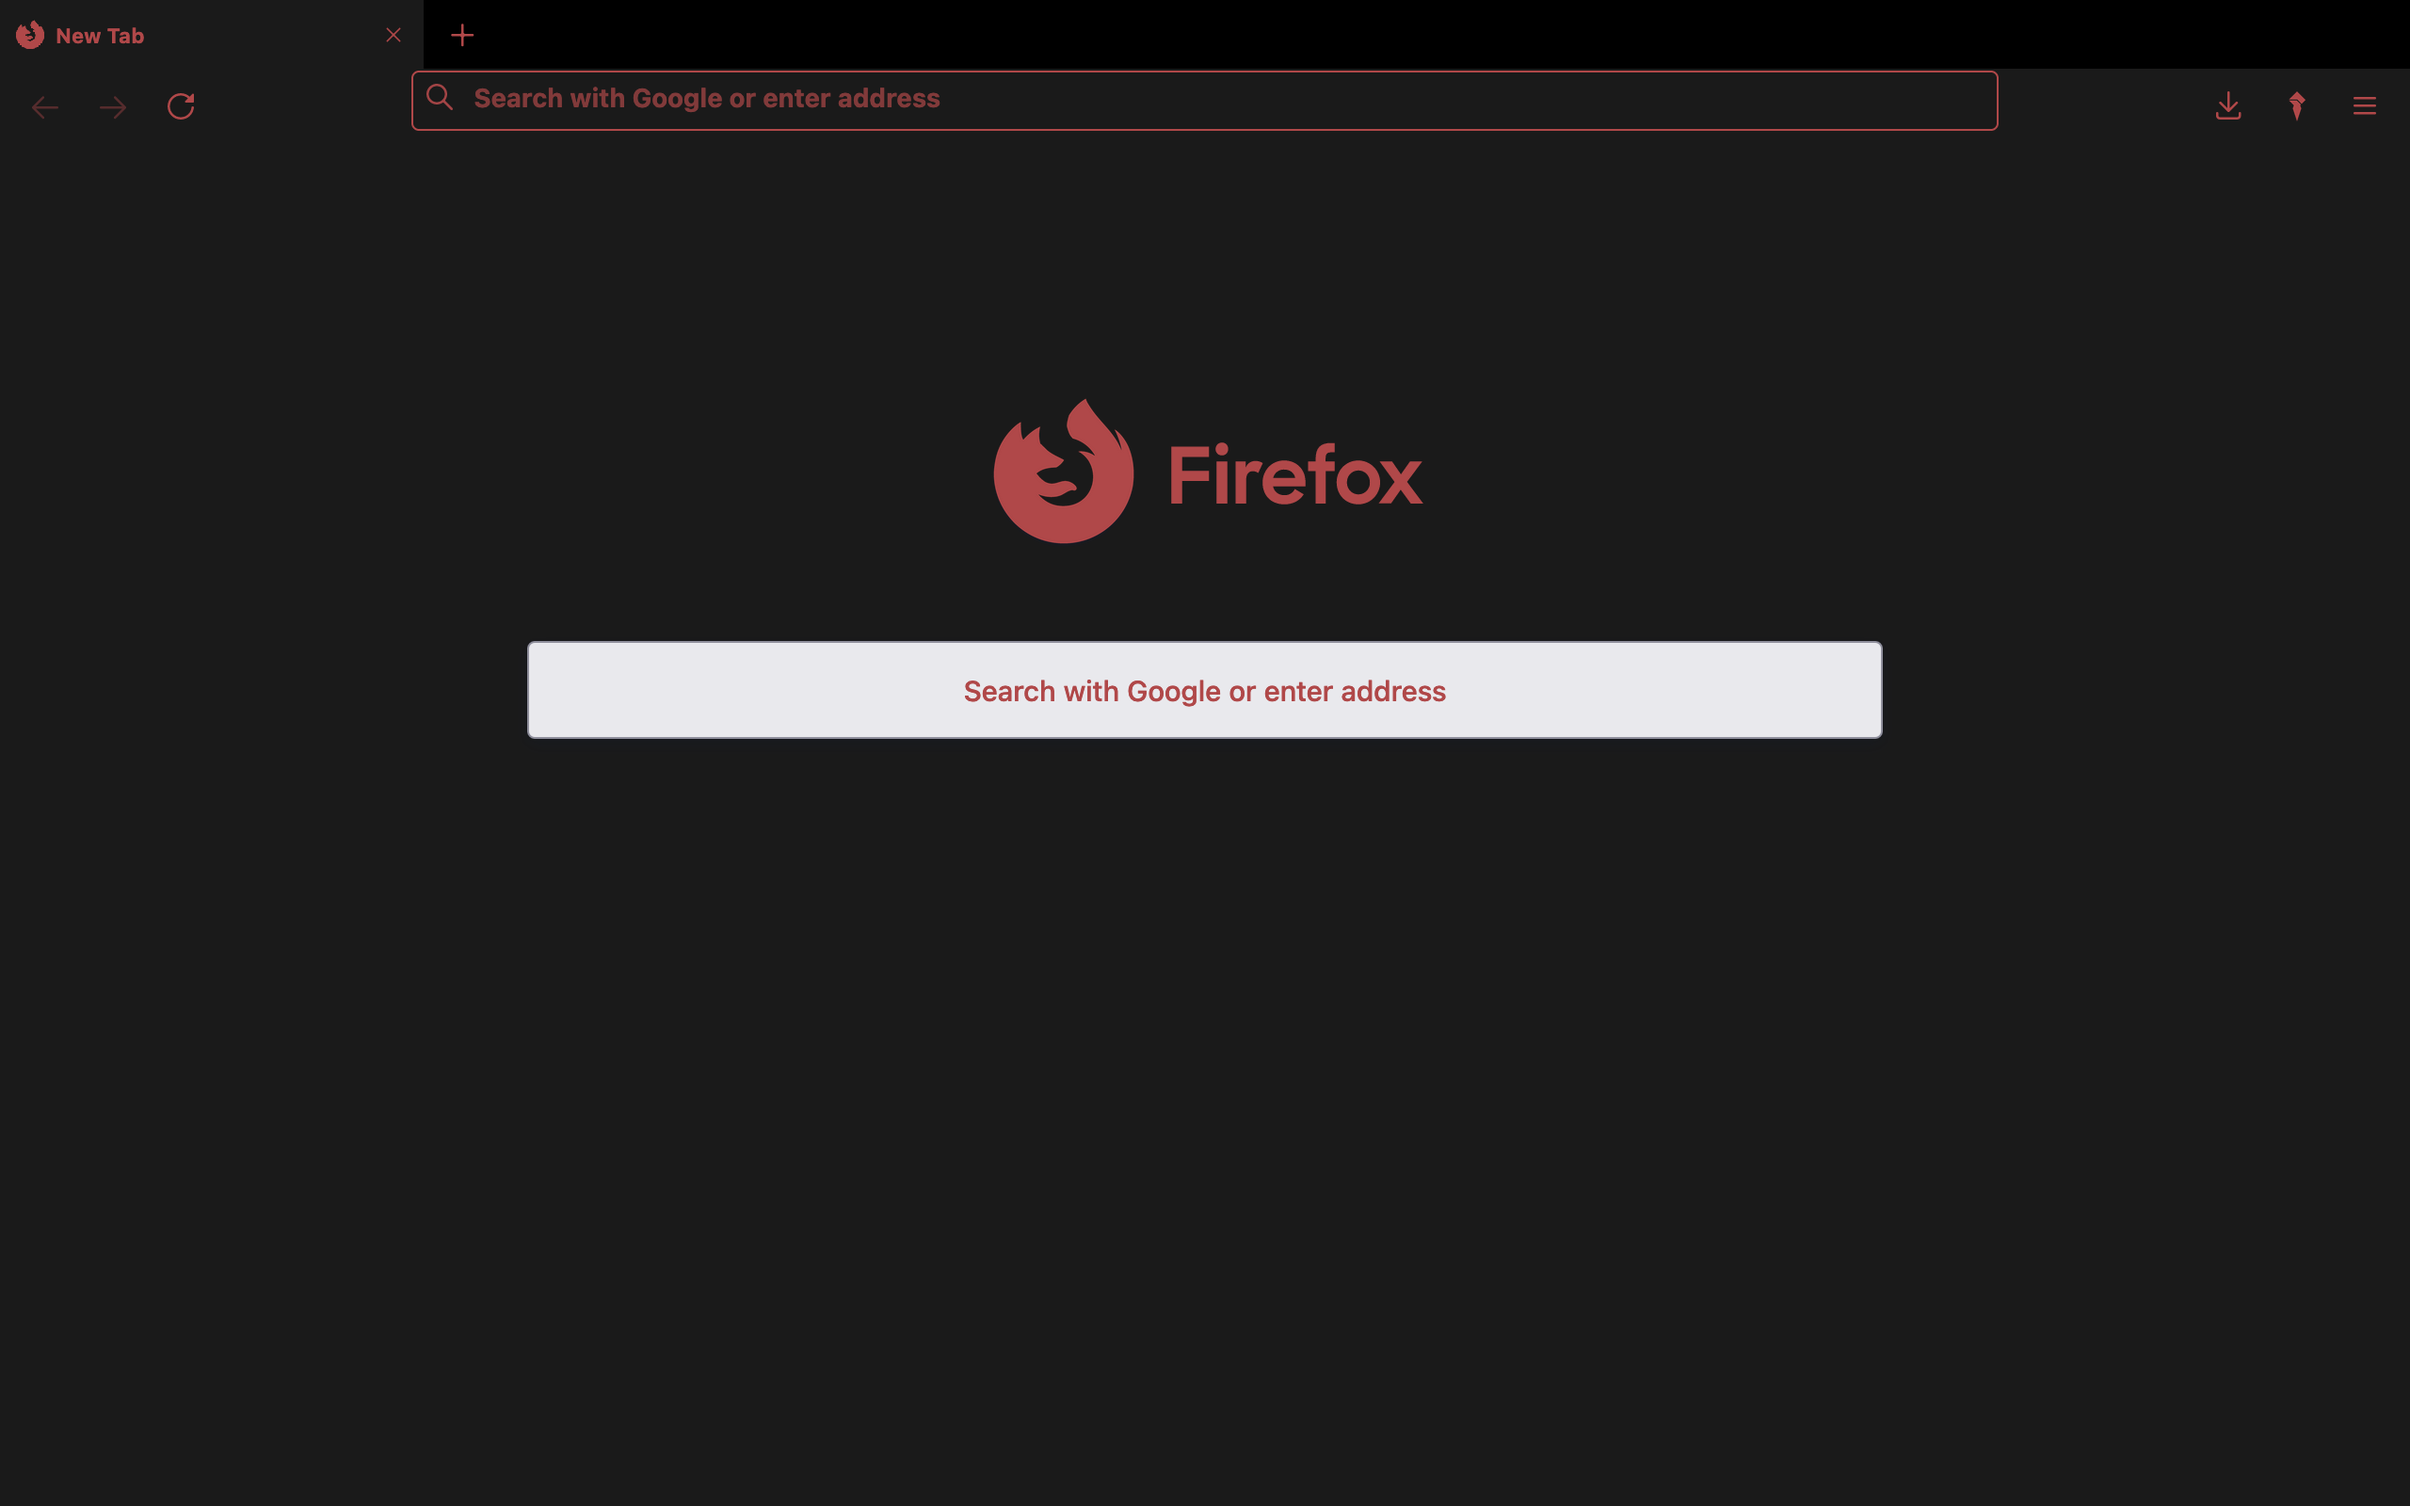
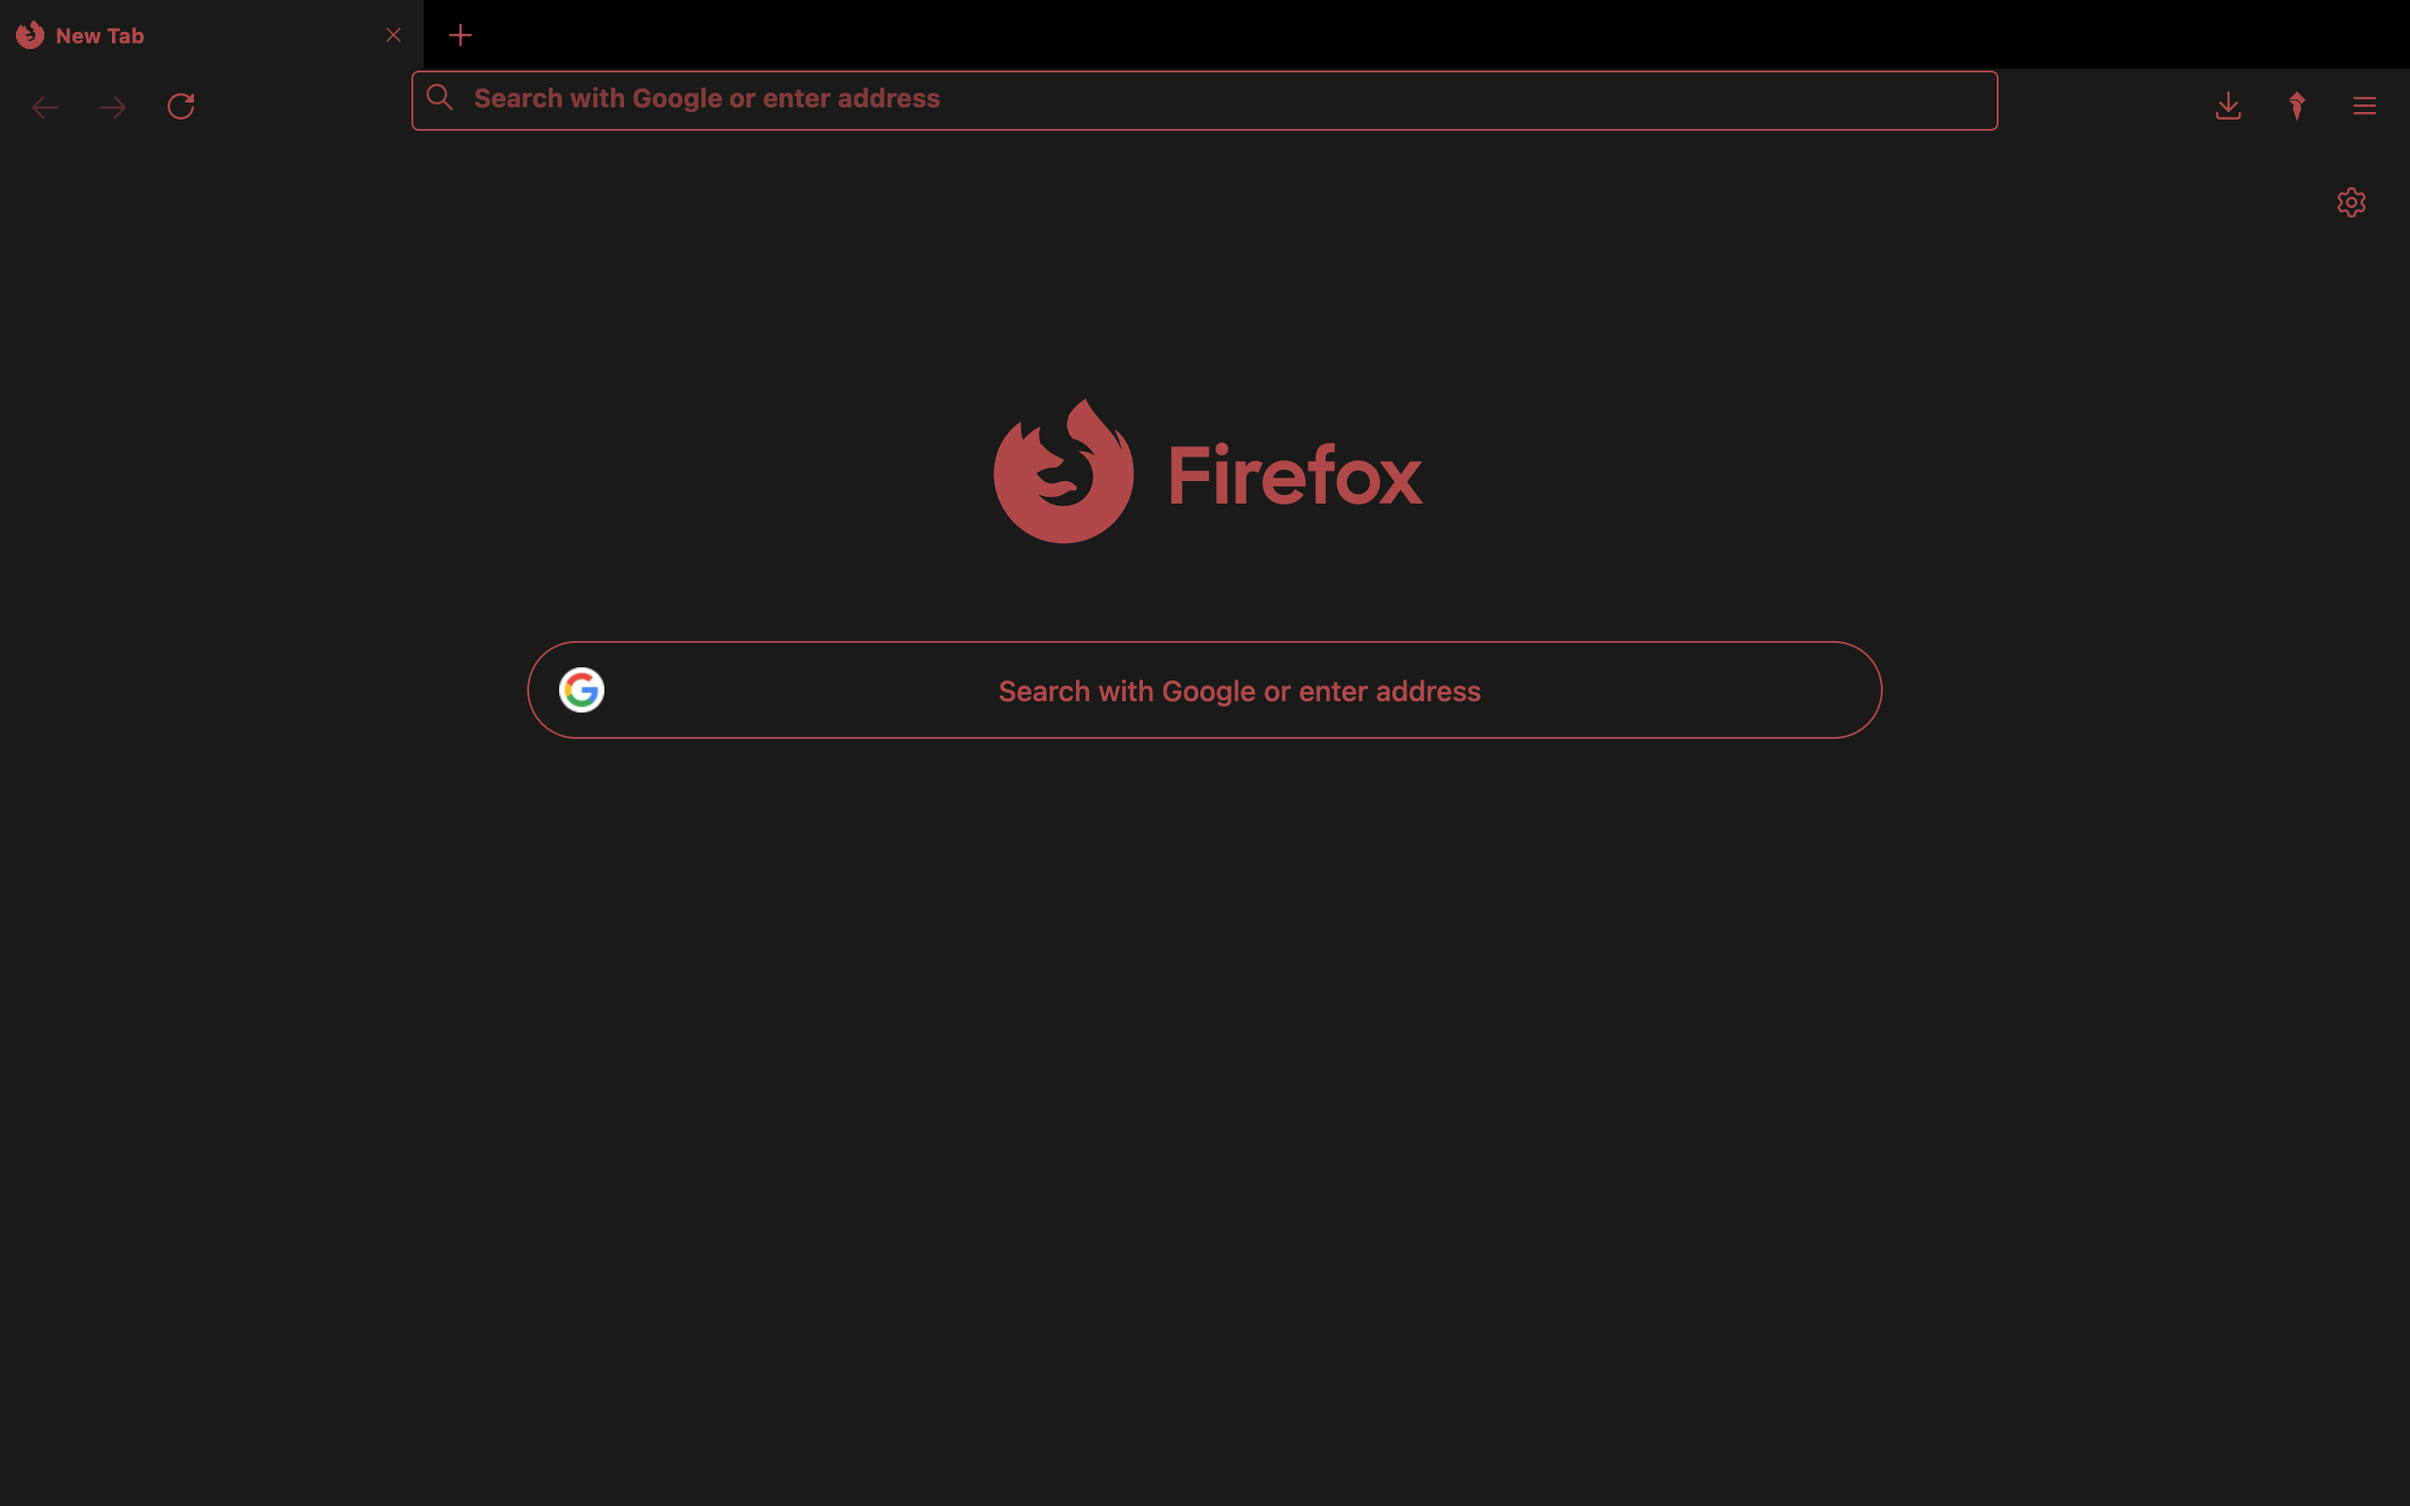
v5.1.0
Fixed Error regarding fake search wrapper looking incorrect

Changed region(s): [[0.2188, 0.4062, 0.7812, 0.5], [0.9688, 0.125, 1.0, 0.1562]]

diff --git a/userContent.css b/userContent.css
@@ -108,30 +108,25 @@ Common Browsing
  }
 
 
-
+    
+/* Changes the gear on the home page to be red*/
+.icon {
+    color: var(--main-accent-color) !important;
+}    
+    
+    
+    
 /* Makes the search bar on the home screen round with red text and a red border when not clicked */
-/* Proton breaks this */
-#newtab-search-text,
-  #searchSubmit{
-    fill: var(--main-accent-color) !important;
-    border-radius: 48px !important;
-    border-color: var(--main-accent-color) !important;
+.outer-wrapper.newtab-experience .search-wrapper .search-handoff-button,
+.outer-wrapper.newtab-experience .search-wrapper input {
+    background-color: var(--main-color) !important;
     box-shadow: none !important;
-    background-color: none !important;
-    color: none !important;
-    font-family: helvetica !important
-  }
-  
-/* This mostly fixes what Proton broke*/
-.outer-wrapper.newtab-experience .search-wrapper .search-handoff-button, .outer-wrapper.newtab-experience .search-wrapper input {
-    background: #1a1a1a var(--newtab-search-icon) 16px center no-repeat !important;
-    padding-inline-start: 0 !important;
-    padding-inline-end: 0 !important;
-    border: 1px solid #b24747 !important;
-    border-radius: 50px !important;
-    color: #b24747 !important;
-}
-
+    border-radius: 100px !important;
+    border-color: var(--main-accent-color) !important;
+    color: var(--main-accent-color) !important;
+}   
+    
+    
 /* Aligns the fake-textbox to the center */
 .search-handoff-button .fake-textbox {
     opacity: 1 !important;
@@ -245,15 +240,3 @@ justify-content: center;
 margin-bottom: 49px; }
 
 }
-
-
-
-
-
-
-
-
-
-
-
-
